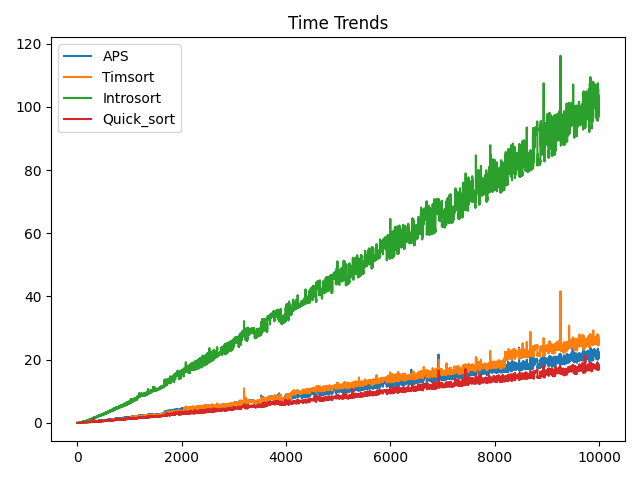
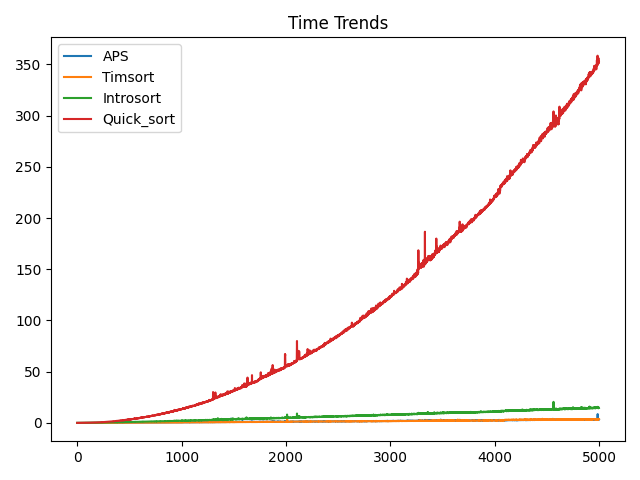
fully randomized

diff --git a/b_memory_complex.py b/b_memory_complex.py
@@ -19,8 +19,8 @@ def generate_data(size):
 def run_experiment(algorithm, sample_size):
     elapsed_mem = []
     for i in range(64):
-        # data = generate_data(sample_size)
-        data = rand_dataset[i]
+        data = generate_data(sample_size)
+        # data = rand_dataset[i]
         tracemalloc.start()
         algorithm(data)
         elapsed_mem.append(tracemalloc.get_traced_memory()[1])

diff --git a/b_time_complex.py b/b_time_complex.py
@@ -19,8 +19,8 @@ def generate_data(size):
 def run_experiment(algorithm, sample_size):
     elapsed_times = []
     for i in range(64):
-        # data = generate_data(sample_size)
-        data = rand_dataset[i]
+        data = generate_data(sample_size)
+        # data = rand_dataset[i]
         start_time = time.time()
         algorithm(data)
         end_time = time.time()
